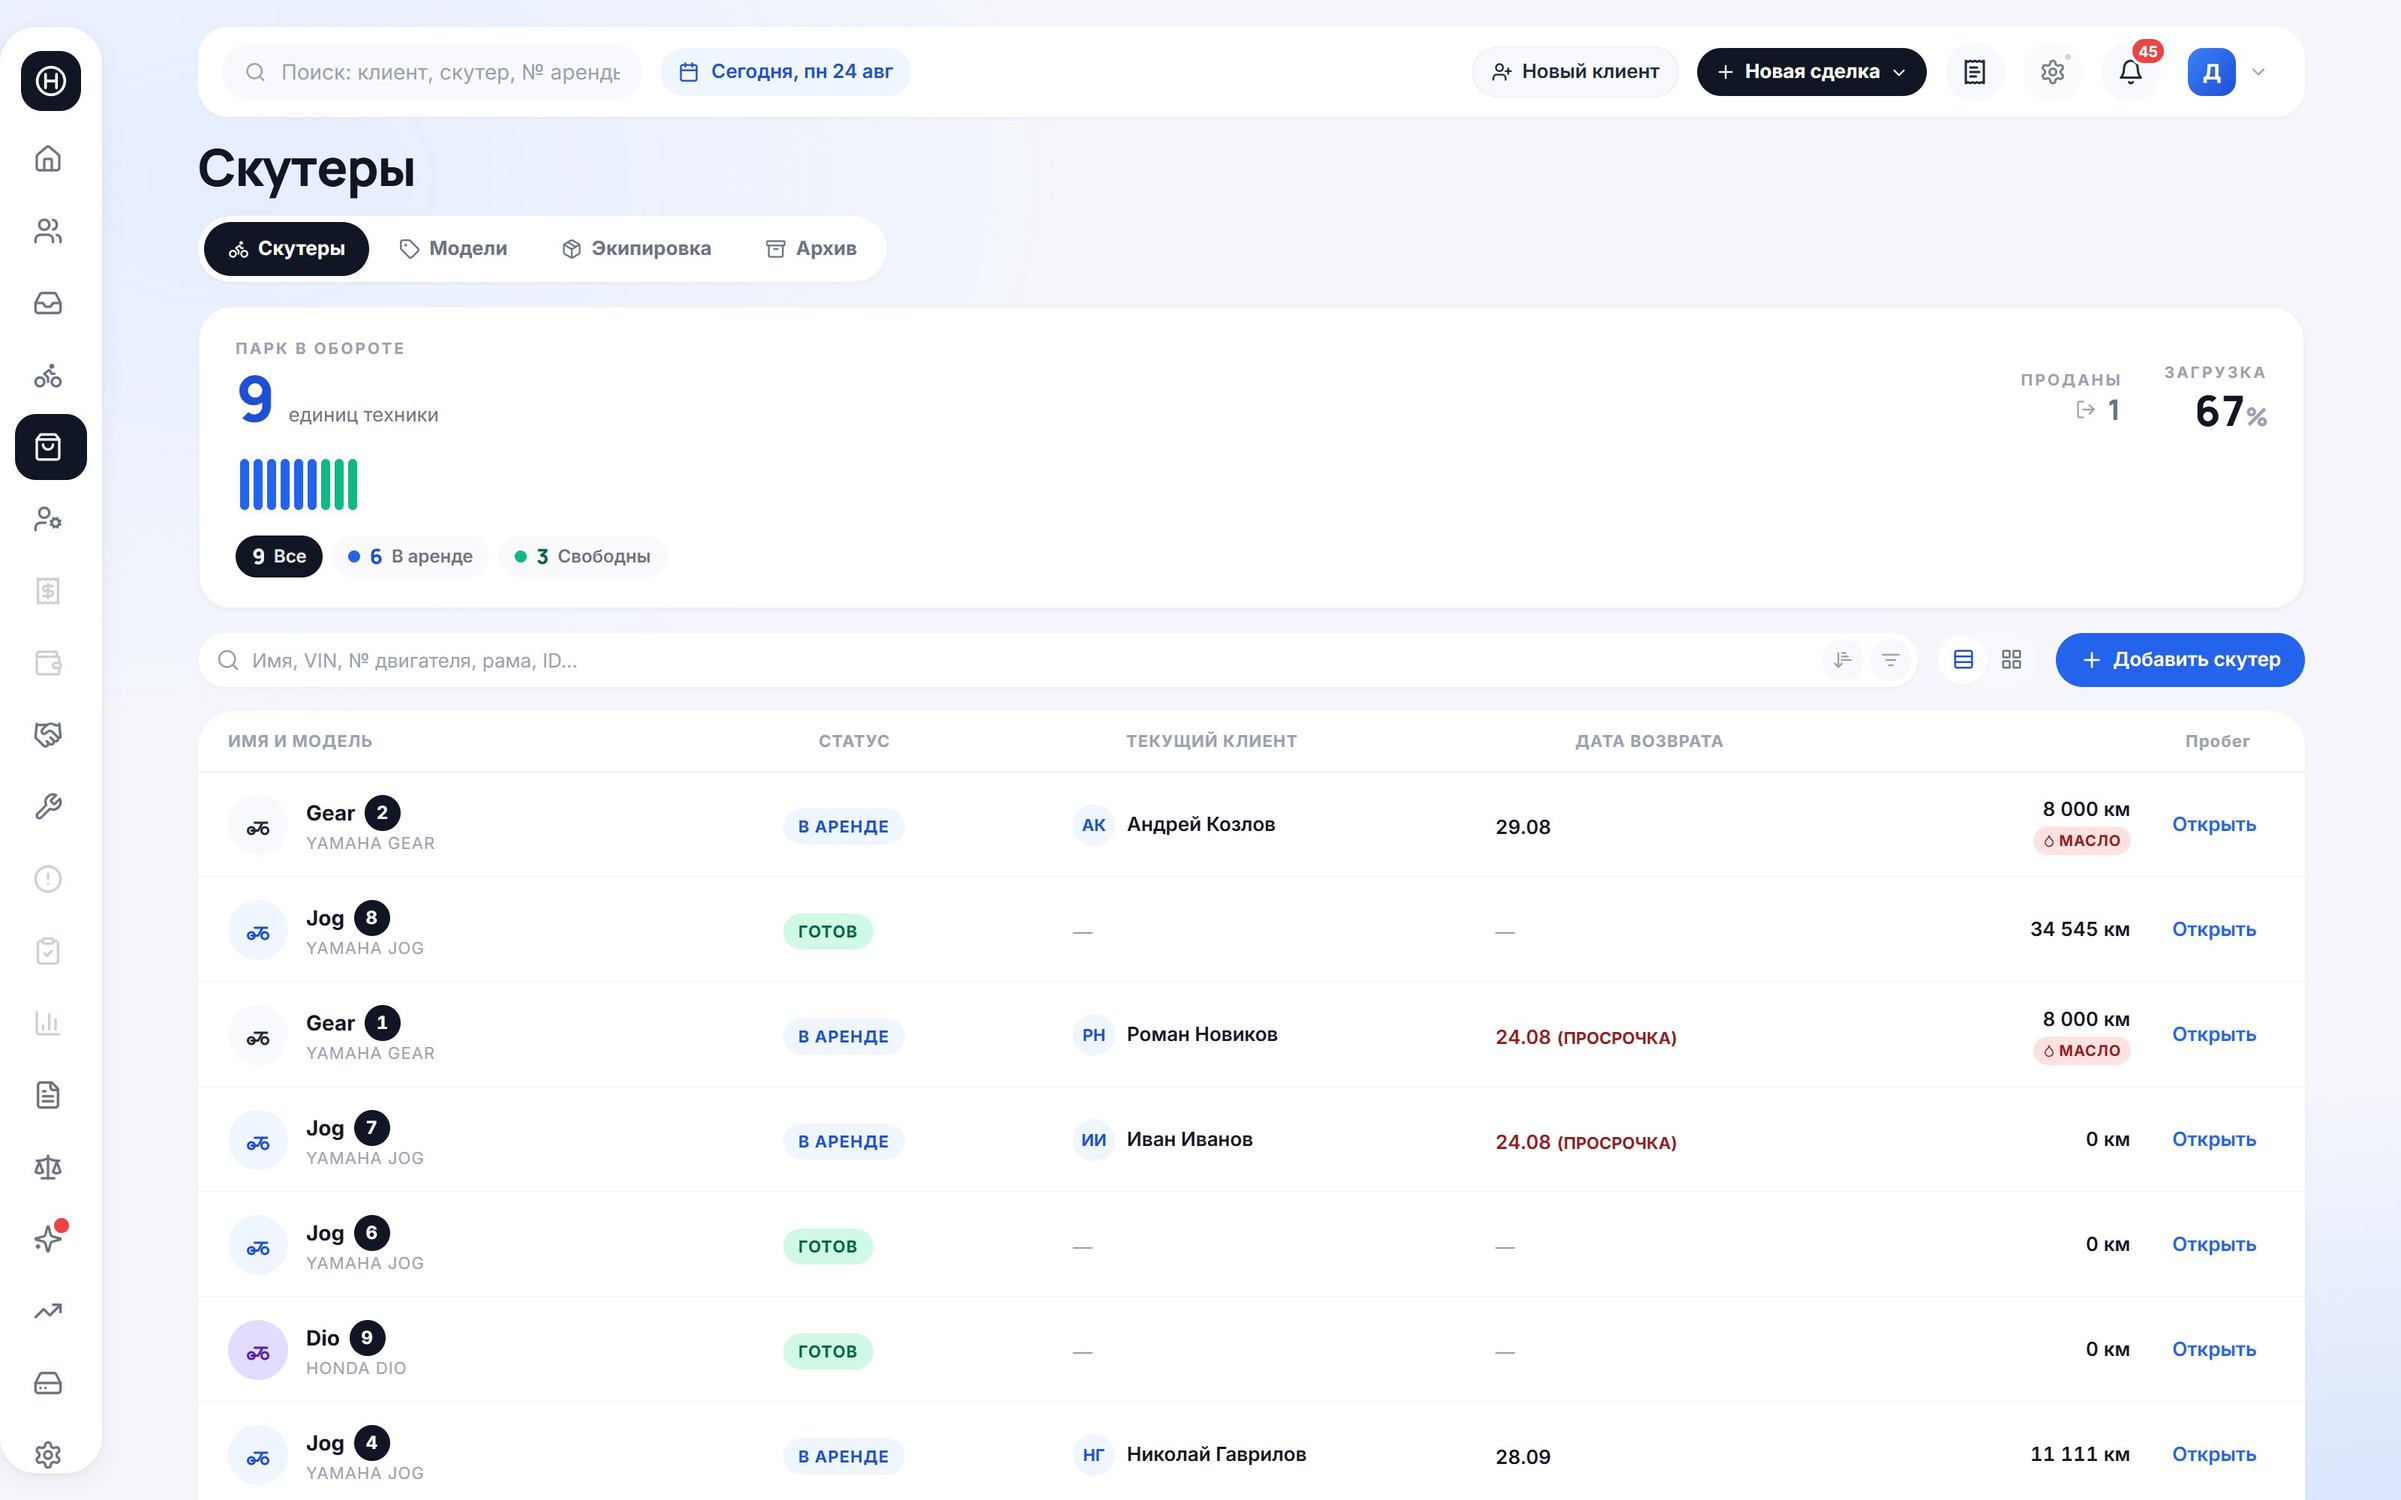
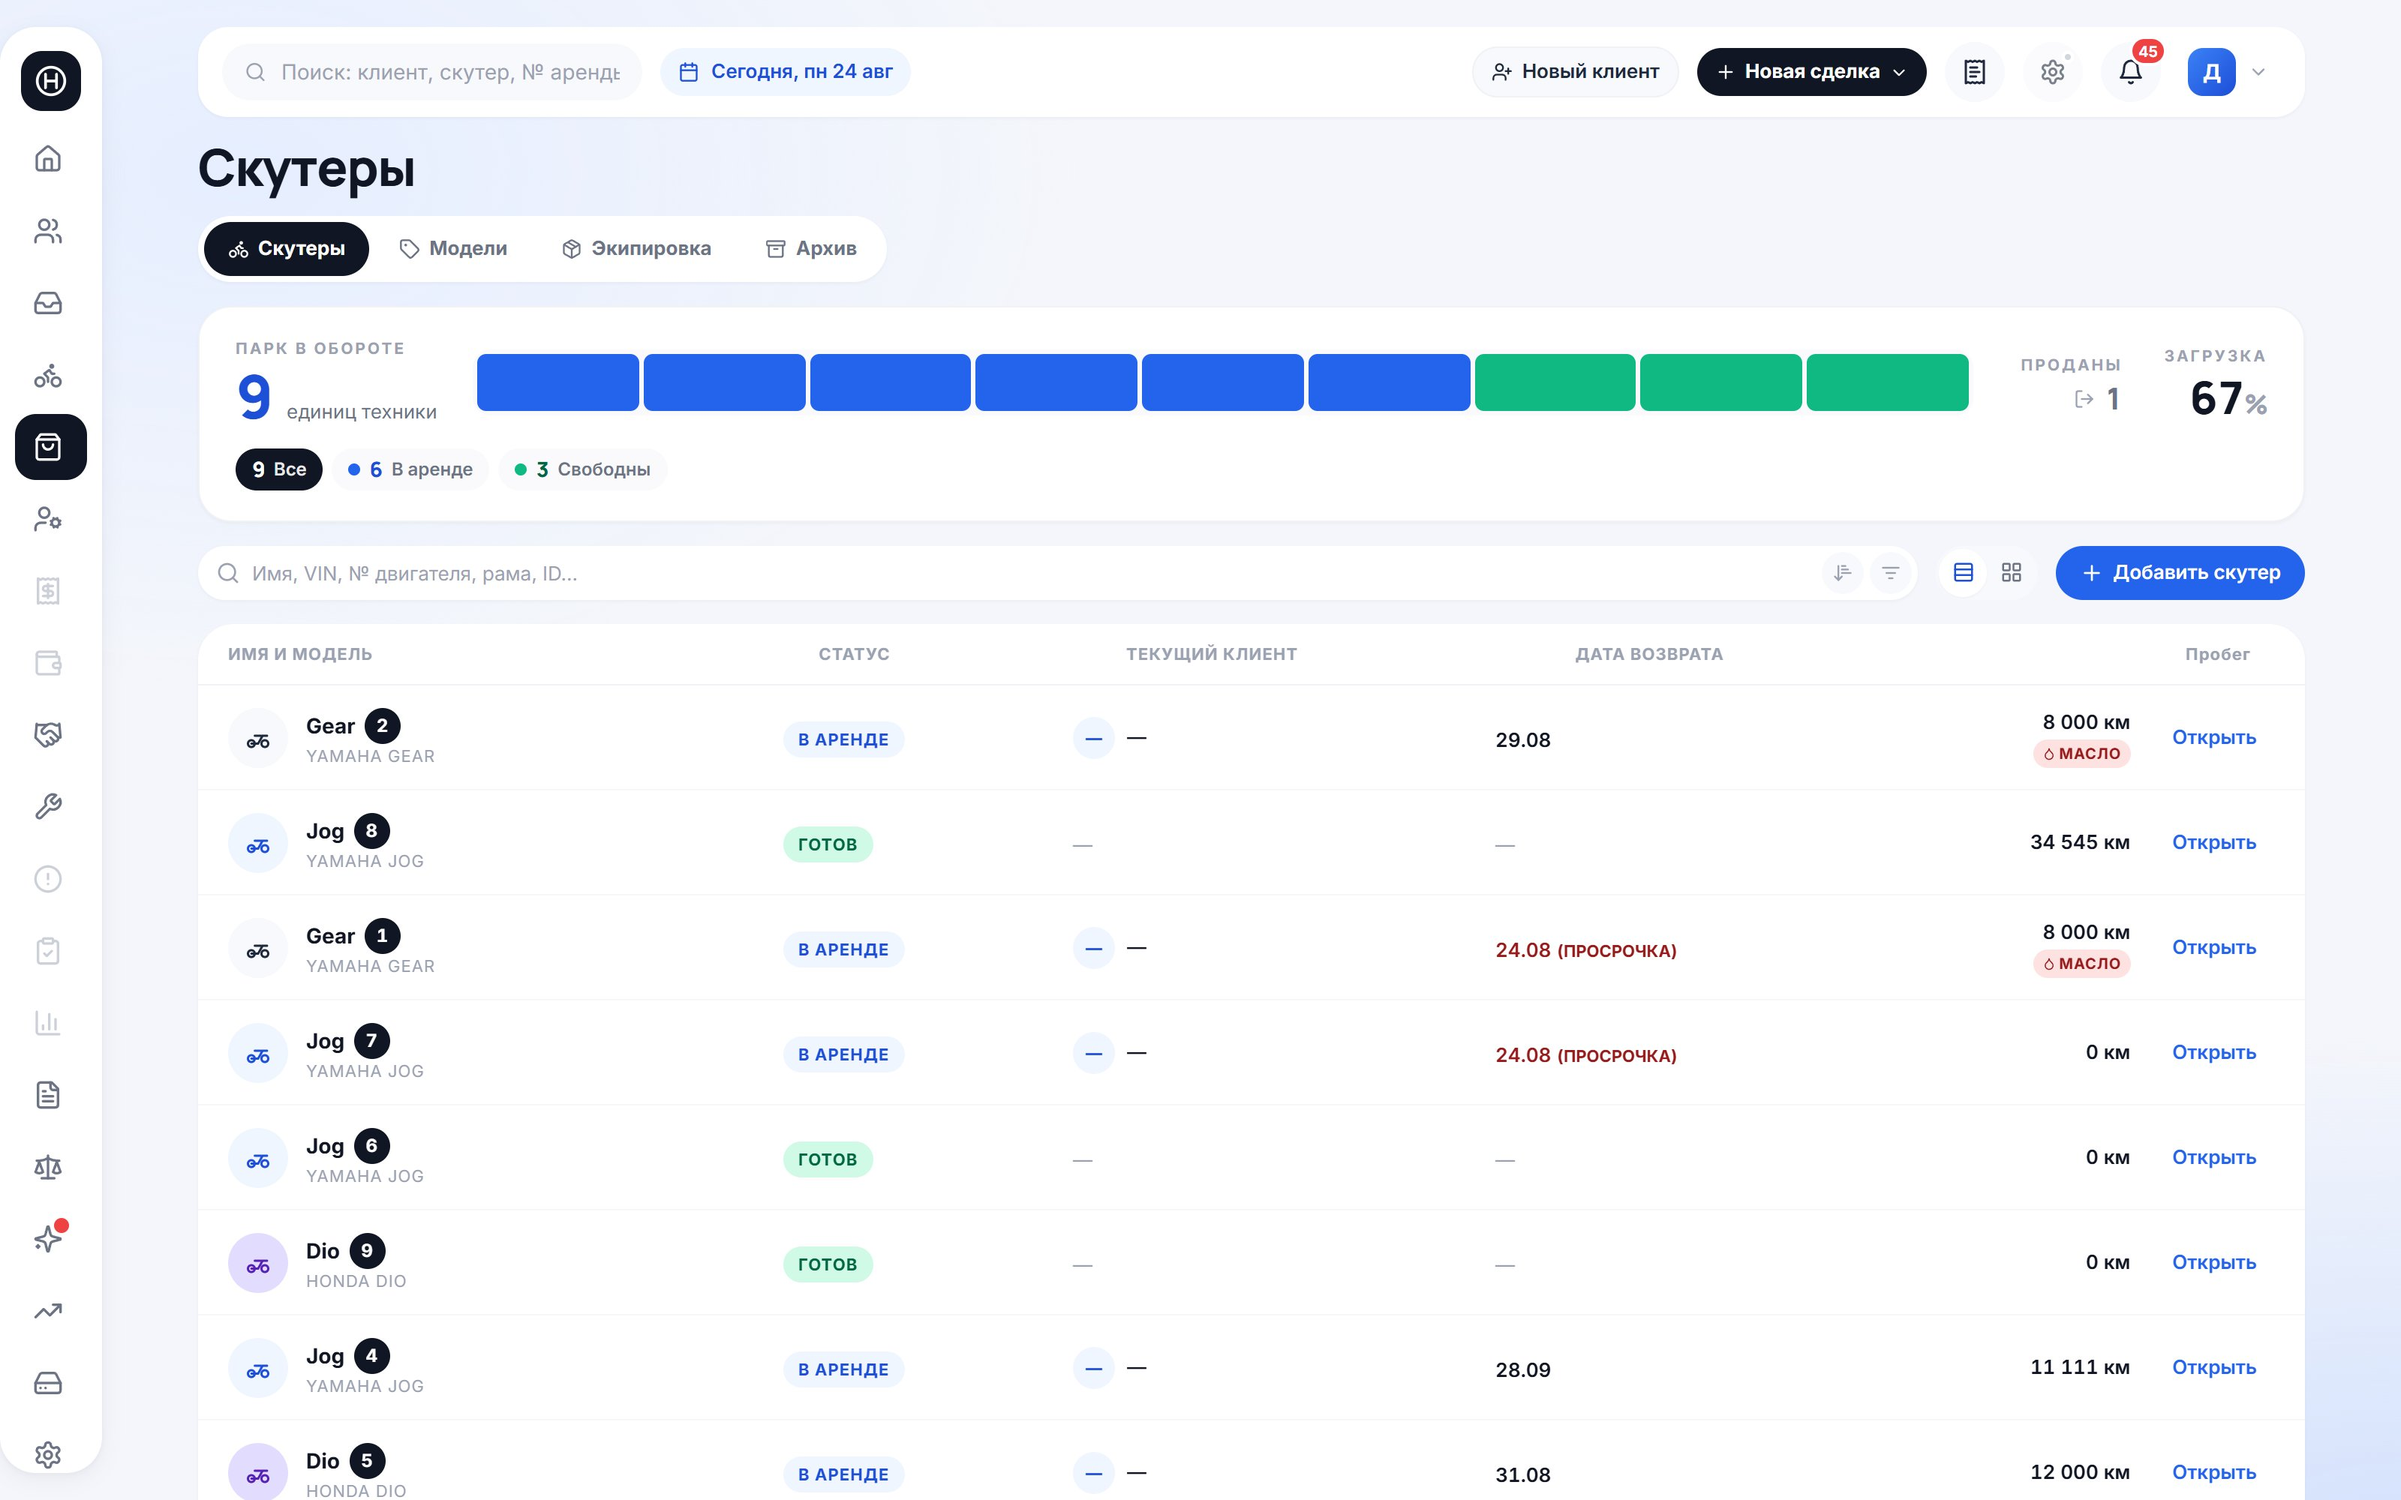
fix(мобилка): лента парка на всю ширину карточки

diff --git a/apps/web/src/mobile/pages/MobileScooters.tsx b/apps/web/src/mobile/pages/MobileScooters.tsx
@@ -293,10 +293,7 @@ function ParkStrip({
         </div>
       </div>
       <div
-        className={cn(
-          "mt-3 flex h-8 max-w-full items-stretch justify-start gap-[2px] overflow-hidden rounded-[9px] bg-surface-soft/70 p-[2px]",
-          perUnit ? "w-fit" : "w-full",
-        )}
+        className="mt-3 flex h-9 w-full items-stretch gap-[2px] overflow-hidden rounded-[10px] bg-surface-soft/70 p-[2px]"
       >
         {perUnit
           ? segments.flatMap((seg) =>
@@ -304,7 +301,7 @@ function ParkStrip({
                 <span
                   key={`${seg.key}-${i}`}
                   className={cn(
-                    "min-w-[5px] max-w-[26px] flex-1 rounded-[4px] transition-opacity",
+                    "min-w-[5px] flex-1 rounded-[5px] transition-opacity",
                     seg.bar,
                     dim(seg.key),
                   )}
